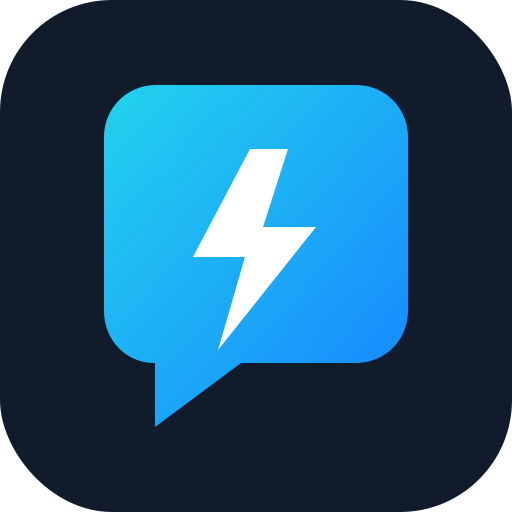
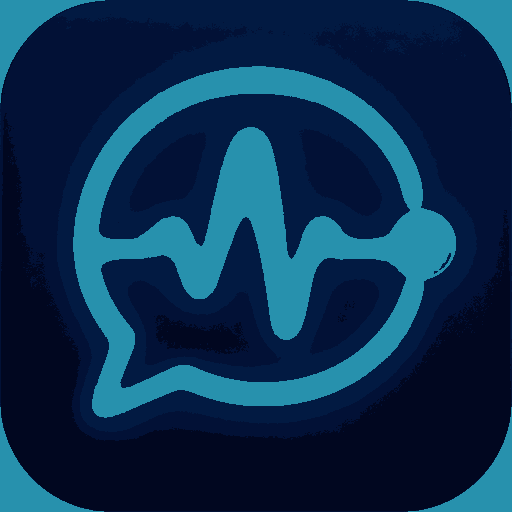
Rename app to Pulse and add turquoise pulse theme

diff --git a/index.html b/index.html
@@ -1,7 +1,7 @@
 <!DOCTYPE html>
 <html lang="hu">
 <head>
-<meta charset="UTF-8"><meta name="viewport" content="width=device-width,initial-scale=1,viewport-fit=cover"><title>Üzenetek – Chat</title><meta name="theme-color" content="#14243a"><meta name="description" content="Üzenetek és csoportos beszélgetések"><link rel="manifest" href="./manifest.json"><link rel="icon" href="./icon.svg" type="image/svg+xml">
+<meta charset="UTF-8"><meta name="viewport" content="width=device-width,initial-scale=1,viewport-fit=cover"><title>Pulse</title><meta name="theme-color" content="#0a2634"><meta name="description" content="Pulse – üzenetek, csoportok és hívások"><link rel="manifest" href="./manifest.json"><link rel="icon" href="./icons/icon-192.png" type="image/png">
 <link rel="preconnect" href="https://fonts.googleapis.com"><link href="https://fonts.googleapis.com/css2?family=DM+Sans:wght@400;500;600;700&family=Manrope:wght@400;500;600;700;800&display=swap" rel="stylesheet">
 <style>
 :root{--blue:#1684ff;--ink:#152033;--muted:#8993a5;--line:#edf0f4;--paper:#fff;--bg:#f4f6fa;--soft:#f0f2f5}*{box-sizing:border-box}body{margin:0;background:var(--bg);color:var(--ink);font-family:'DM Sans',sans-serif;height:100vh;overflow:hidden}.shell{height:100vh;max-width:1560px;margin:auto;background:#fff;display:grid;grid-template-columns:76px 360px 1fr;box-shadow:0 0 48px #28364a12}.rail{background:#fff;border-right:1px solid var(--line);display:flex;align-items:center;flex-direction:column;padding:23px 0;gap:20px}.brand{width:44px;height:44px;background:linear-gradient(135deg,#20b1ff,#286bff);color:#fff;border-radius:15px;display:grid;place-items:center;font-size:23px;font-weight:800;margin-bottom:20px;box-shadow:0 6px 14px #1684ff44}.rail-btn{width:44px;height:44px;border:0;border-radius:14px;background:transparent;color:#9aa4b4;font-size:20px;cursor:pointer;position:relative}.rail-btn:hover,.rail-btn.active{background:#edf5ff;color:var(--blue)}.rail-spacer{flex:1}.rail-avatar{width:40px;height:40px;border-radius:50%;object-fit:cover;cursor:pointer;border:2px solid white;box-shadow:0 0 0 1px #e8ebf0;background:#f0f3f7;color:#8591a3;display:grid;place-items:center;font-size:19px}.sidebar{border-right:1px solid var(--line);display:flex;flex-direction:column;min-width:0}.side-head{padding:30px 25px 20px}.head-row{display:flex;align-items:center;justify-content:space-between}.head-row h1{font:800 26px Manrope,sans-serif;margin:0;letter-spacing:-1px}.round-action{width:37px;height:37px;border:0;border-radius:50%;background:#eff3f8;color:#26354b;font-size:20px;cursor:pointer}.tabs{display:flex;gap:8px;margin-top:23px}.tab{border:0;background:none;padding:8px 14px;border-radius:20px;color:#8791a0;font:600 13px inherit;cursor:pointer}.tab.active{background:#eaf3ff;color:var(--blue)}.search{margin:0 20px 14px;background:#f2f4f7;border-radius:11px;padding:0 13px;display:flex;align-items:center;gap:9px;height:40px;color:#929bab}.search input{border:0;outline:0;background:transparent;font:14px inherit;width:100%;color:var(--ink)}.list{overflow:auto;padding:2px 10px}.person{width:100%;border:0;background:transparent;display:flex;align-items:center;text-align:left;gap:12px;padding:11px 12px;border-radius:13px;cursor:pointer}.person:hover{background:#f6f8fb}.person.selected{background:#edf5ff}.avatar-wrap{position:relative;flex-shrink:0}.avatar{width:49px;height:49px;border-radius:50%;object-fit:cover;background:#e8edf4;display:grid;place-items:center;color:#9aa5b3;flex-shrink:0}.avatar img{width:100%;height:100%;object-fit:cover;border-radius:50%}.online{position:absolute;right:0;bottom:2px;width:12px;height:12px;background:#28c76f;border:2px solid white;border-radius:50%}.person-meta{min-width:0;flex:1}.person-top{display:flex;justify-content:space-between;gap:6px;align-items:center}.person-name{font-weight:700;font-size:14px;white-space:nowrap;overflow:hidden;text-overflow:ellipsis}.time{color:#9ca5b2;font-size:11px;white-space:nowrap}.preview{font-size:12px;color:#929bab;margin-top:4px;white-space:nowrap;overflow:hidden;text-overflow:ellipsis}.badge{background:var(--blue);color:#fff;border-radius:10px;font-size:10px;padding:2px 6px}.chat{min-width:0;display:flex;flex-direction:column;background:white}.chat-head{height:78px;border-bottom:1px solid var(--line);display:flex;align-items:center;padding:0 27px;gap:12px}.chat-person{flex:1;min-width:0}.chat-person strong{display:block;font-size:15px}.chat-person span{font-size:12px;color:#28b76b}.head-tools{display:flex;gap:9px}.tool{border:0;width:37px;height:37px;border-radius:50%;background:#f1f4f8;color:#657187;font-size:17px;cursor:pointer}.tool:hover{color:var(--blue);background:#eaf3ff}.chat-body{flex:1;overflow:auto;padding:26px clamp(18px,5vw,76px);display:flex;flex-direction:column;gap:13px;background:linear-gradient(#fff,#fff)}.day{text-align:center;color:#a0a8b3;font-size:11px;margin:1px 0 8px}.msg-row{display:flex;align-items:flex-end;gap:8px;max-width:75%}.msg-row.mine{align-self:flex-end;flex-direction:row-reverse}.msg-avatar{width:27px;height:27px;border-radius:50%;object-fit:cover}.bubble{padding:11px 15px;border-radius:18px;background:#f0f2f5;color:#283246;font-size:14px;line-height:1.45;max-width:100%;word-break:break-word}.bubble .message-image{display:block;width:min(100%,320px);max-height:420px;object-fit:contain;border-radius:12px}.bubble:has(.message-image){padding:6px}.message-image+*{margin-top:6px}.msg-row:not(.mine) .bubble{border-bottom-left-radius:5px}.msg-row.mine .bubble{background:linear-gradient(130deg,#2399ff,#0875f4);color:#fff;border-bottom-right-radius:5px}.msg-time{font-size:10px;color:#9ba5b2;margin:0 4px 1px}.composer{padding:14px 24px 22px;border-top:1px solid var(--line);display:flex;align-items:center;gap:10px}.compose-btn{border:0;background:none;color:#7d8899;font-size:20px;cursor:pointer;width:30px}.compose-input{flex:1;border:0;outline:0;background:#f2f4f7;border-radius:24px;height:44px;padding:0 18px;font:14px 'DM Sans';min-width:0}.send{border:0;background:var(--blue);color:white;border-radius:50%;width:42px;height:42px;font-size:17px;cursor:pointer;box-shadow:0 3px 9px #1684ff50}.send:hover{background:#0871e6}.empty{padding:35px;text-align:center;color:#9aa3b0;font-size:13px}.profile{display:none;flex:1;overflow:auto;background:#f8f9fb;padding:32px clamp(20px,6vw,90px)}.profile-card{max-width:700px;margin:auto;background:#fff;border:1px solid var(--line);border-radius:22px;padding:30px;box-shadow:0 8px 30px #1f34500a}.profile-title{font:800 24px Manrope;margin:0 0 25px}.profile-hero{display:flex;align-items:center;gap:18px;padding-bottom:24px;border-bottom:1px solid var(--line)}.big-avatar{width:94px;height:94px;border-radius:50%;object-fit:cover;background:#edf1f5;display:grid;place-items:center;color:#9aa5b3;font-size:34px;background-size:cover;background-position:center}.hero-info h2{margin:0 0 5px;font:700 21px Manrope}.hero-info p{margin:0;color:#909aaa;font-size:13px}.blue-btn{border:0;background:#edf5ff;color:var(--blue);font-weight:700;padding:9px 13px;border-radius:9px;cursor:pointer;margin-top:12px}.field{margin-top:21px}.field label{display:block;font-size:12px;font-weight:700;color:#697487;margin-bottom:8px}.field input{height:44px;border:1px solid #e6eaf0;border-radius:10px;width:100%;padding:0 13px;font:14px 'DM Sans';outline-color:#8dbdff}.photos{display:flex;gap:10px;flex-wrap:wrap;margin-top:10px}.photo-thumb{width:68px;height:68px;border-radius:12px;object-fit:cover}.add-photo{width:68px;height:68px;border-radius:12px;border:1px dashed #b7c5d8;background:#fafcff;color:#8393a9;font-size:24px;cursor:pointer}.setting-row{display:flex;align-items:center;justify-content:space-between;padding:17px 0;border-bottom:1px solid var(--line);font-size:13px}.setting-row span{color:#8791a0}.toggle{width:40px;height:23px;border:0;border-radius:20px;background:#d8dee7;position:relative;cursor:pointer}.toggle:after{content:'';position:absolute;width:17px;height:17px;border-radius:50%;background:white;top:3px;left:3px;transition:.2s}.toggle.on{background:var(--blue)}.toggle.on:after{left:20px}.profile-tab .profile{display:block}.profile-tab .chat{display:none}.profile-tab .sidebar{display:none}.profile-tab{grid-template-columns:76px 1fr}.group-modal{position:fixed;inset:0;background:#101d3280;display:none;place-items:center;z-index:5}.modal-box{background:white;width:min(420px,calc(100vw - 30px));padding:25px;border-radius:20px;box-shadow:0 20px 80px #0003}.modal-box h3{font:800 20px Manrope;margin:0 0 18px}.modal-box input,.modal-box select{width:100%;padding:12px;border:1px solid #e2e7ef;border-radius:10px;margin:6px 0 14px;font:14px 'DM Sans'}.modal-actions{display:flex;justify-content:flex-end;gap:8px}.modal-actions button{padding:10px 16px;border:0;border-radius:9px;cursor:pointer;font-weight:700}.cancel{background:#f1f3f6}.create{background:var(--blue);color:white}.file{display:none}.toast{position:fixed;bottom:26px;left:50%;transform:translateX(-50%) translateY(20px);background:#172236;color:#fff;padding:11px 17px;border-radius:30px;font-size:13px;opacity:0;transition:.25s;pointer-events:none;z-index:9}.toast.show{opacity:1;transform:translateX(-50%) translateY(0)}@media(max-width:800px){.shell{grid-template-columns:62px 290px 1fr}.chat-head{padding:0 15px}.chat-body{padding:20px 14px}.composer{padding:12px}.head-tools .tool:nth-child(1){display:none}}@media(max-width:620px){body{overflow:hidden}.shell{grid-template-columns:58px 1fr}.sidebar{display:flex}.chat{display:none}.profile{display:none}.shell.mobile-chat{grid-template-columns:58px 1fr}.mobile-chat .sidebar{display:none}.mobile-chat .chat{display:flex}.mobile-chat .profile{display:none}.mobile-chat.profile-tab .chat{display:none}.mobile-chat.profile-tab .profile{display:block}.side-head{padding:20px 16px 14px}.side-head h1{font-size:23px}.person{padding:10px 7px}.chat-head{height:68px}.back{display:block!important}.profile-tab{grid-template-columns:58px 1fr}.profile{padding:20px 12px}.profile-card{padding:20px}.composer{gap:5px}.compose-btn{width:25px}.msg-row{max-width:90%}}.back{display:none}
@@ -601,6 +601,18 @@ async function logoutFromOwnProfile(){if(!firebaseUser){toast('Nincs bejelentkez
   <button id="callHangupButton" class="call-control hangup" onclick="endPhoneCall()" aria-label="Hívás befejezése">☎</button>
  </div></div>
 </div>
+<style>
+/* Pulse alap téma: a háttér finoman lélegzik, az ikon a márkajel. */
+@keyframes pulseAqua{0%,100%{background-position:0% 0%,100% 100%,50% 50%;filter:saturate(1)}50%{background-position:10% 8%,90% 92%,50% 50%;filter:saturate(1.18)}}
+body{background:radial-gradient(ellipse at 16% 14%,rgba(0,239,231,.16),transparent 35%),radial-gradient(ellipse at 88% 84%,rgba(15,177,205,.14),transparent 42%),linear-gradient(145deg,#06131c,#071e29 52%,#06151c);animation:pulseAqua 7s ease-in-out infinite}
+.shell{background:rgba(7,20,29,.95);border-color:rgba(68,234,229,.15)}
+.app-topbar{background:linear-gradient(105deg,#081b26,#092b35 54%,#072029)}
+.sidebar{background:linear-gradient(160deg,#081b26,#09232d 62%,#06242a)}
+.chat,.chat-head,.composer{background:#091d28}.chat-body{background:radial-gradient(ellipse at 8% 8%,rgba(0,240,223,.11),transparent 34%),radial-gradient(ellipse at 94% 90%,rgba(12,174,207,.11),transparent 36%),linear-gradient(145deg,#071d29,#092430 54%,#061d25)}
+.brand{background:#071827 url('./icons/icon-192.png') center/cover no-repeat!important;box-shadow:0 8px 22px rgba(0,236,227,.28)!important;color:transparent!important}
+.new-group,.create,.send,.msg-row.mine .bubble{background:linear-gradient(115deg,#00cfc8,#08aaca 58%,#0878af)!important}
+</style>
+<script>document.querySelector('.top-brand strong').textContent='Pulse';</script>
 <script src="./calls.js"></script><script src="./mobile-bridge.js"></script><script src="./notifications.js"></script>
 <script>if('serviceWorker'in navigator&&!window.ChatNative?.isNative)navigator.serviceWorker.register('./sw.js').catch(console.warn);updateNotificationSetting();</script>
 <script>let deferredInstallPrompt=null;window.addEventListener('beforeinstallprompt',event=>{event.preventDefault();deferredInstallPrompt=event;document.getElementById('installAppButton').textContent='Telepítés a készülékre'});window.addEventListener('appinstalled',()=>{deferredInstallPrompt=null;toast('Az alkalmazás telepítve')});window.installChatApp=async function(){if(deferredInstallPrompt){await deferredInstallPrompt.prompt();await deferredInstallPrompt.userChoice;deferredInstallPrompt=null;return}if(window.ChatNative?.isNative||window.matchMedia('(display-mode: standalone)').matches){toast('Az alkalmazás már telepítve van');return}toast(/iPhone|iPad/.test(navigator.userAgent)?'Safari → Megosztás → Hozzáadás a főképernyőhöz':'Chrome menü ⋮ → Alkalmazás telepítése')};</script></body></html>

diff --git a/ios/App/App/AppDelegate.swift b/ios/App/App/AppDelegate.swift
@@ -113,7 +113,7 @@ final class ChatPhoneManager: NSObject, PKPushRegistryDelegate, CXProviderDelega
     var timers: [UUID:Timer]=[:]
     var pendingAction: [String:Any]?
     var idToken:String?
-    override init(){let c=CXProviderConfiguration(localizedName:"Üzenetek");c.supportsVideo=false;c.maximumCallsPerCallGroup=1;c.supportedHandleTypes=[.generic];provider=CXProvider(configuration:c);super.init();provider.setDelegate(self,queue:.main)}
+    override init(){let c=CXProviderConfiguration(localizedName:"Pulse");c.supportsVideo=false;c.maximumCallsPerCallGroup=1;c.supportedHandleTypes=[.generic];provider=CXProvider(configuration:c);super.init();provider.setDelegate(self,queue:.main)}
     func configure(){UNUserNotificationCenter.current().delegate=self;registry=PKPushRegistry(queue:.main);registry?.delegate=self;registry?.desiredPushTypes=[.voIP]}
     func didRegister(token:Data){UserDefaults.standard.set(token.map{String(format:"%02x",$0)}.joined(),forKey:"apnsToken");emitTokens()}
     func emitTokens(){var data:[String:Any]=["platform":"ios"];if let t=UserDefaults.standard.string(forKey:"apnsToken"){data["token"]=t};if let t=UserDefaults.standard.string(forKey:"voipToken"){data["voipToken"]=t};if data.count>1{plugin?.emit("pushToken",data)}}

diff --git a/sw.js b/sw.js
@@ -22,5 +22,5 @@ firebase.initializeApp({apiKey:'AIzaSyAX1n-46JJ6a3XnQwd_d0QaDoQbV1QnSYc',project
 firebase.messaging().onBackgroundMessage(payload=>{
   const d=payload.data||{};if(d.type==='call'&&Number(d.expiresAt)<Date.now())return;
   if(d.type==='call-ended')return self.registration.getNotifications({tag:'call-'+d.callId}).then(items=>items.forEach(n=>n.close()));
-  return self.registration.showNotification(d.title||'Üzenetek',{body:(d.isGroup==='true'?d.senderName+'\n':'')+(d.body||'Új üzenet'),icon:d.avatarUrl||'./icons/icon-192.png',badge:'./icons/badge.png',tag:d.tag,requireInteraction:d.type==='call',vibrate:d.type==='call'?[300,100,300,100,300]:[120],data:{chatId:d.chatId,callId:d.callId,url:d.type==='call'?'./?call='+encodeURIComponent(d.callId):'./?chat='+encodeURIComponent(d.chatId)}});
+  return self.registration.showNotification(d.title||'Pulse',{body:(d.isGroup==='true'?d.senderName+'\n':'')+(d.body||'Új üzenet'),icon:d.avatarUrl||'./icons/icon-192.png',badge:'./icons/badge.png',tag:d.tag,requireInteraction:d.type==='call',vibrate:d.type==='call'?[300,100,300,100,300]:[120],data:{chatId:d.chatId,callId:d.callId,url:d.type==='call'?'./?call='+encodeURIComponent(d.callId):'./?chat='+encodeURIComponent(d.chatId)}});
 });

diff --git a/android/app/src/main/java/hu/martinroszoly/chat/ChatNotifications.java b/android/app/src/main/java/hu/martinroszoly/chat/ChatNotifications.java
@@ -16,7 +16,7 @@ public class ChatNotifications {
     static int id(String key){return key.hashCode()&0x7fffffff;}
     static void channels(Context c){
         NotificationManager nm=c.getSystemService(NotificationManager.class);
-        NotificationChannel messages=new NotificationChannel(MESSAGES,"Üzenetek",NotificationManager.IMPORTANCE_HIGH);messages.enableVibration(true);messages.setSound(RingtoneManager.getDefaultUri(RingtoneManager.TYPE_NOTIFICATION),new AudioAttributes.Builder().setUsage(AudioAttributes.USAGE_NOTIFICATION).build());nm.createNotificationChannel(messages);
+        NotificationChannel messages=new NotificationChannel(MESSAGES,"Pulse üzenetek",NotificationManager.IMPORTANCE_HIGH);messages.enableVibration(true);messages.setSound(RingtoneManager.getDefaultUri(RingtoneManager.TYPE_NOTIFICATION),new AudioAttributes.Builder().setUsage(AudioAttributes.USAGE_NOTIFICATION).build());nm.createNotificationChannel(messages);
         NotificationChannel calls=new NotificationChannel(CALLS,"Bejövő hívások",NotificationManager.IMPORTANCE_HIGH);calls.enableVibration(true);calls.setSound(RingtoneManager.getDefaultUri(RingtoneManager.TYPE_RINGTONE),new AudioAttributes.Builder().setUsage(AudioAttributes.USAGE_NOTIFICATION_RINGTONE).build());nm.createNotificationChannel(calls);
         nm.createNotificationChannel(new NotificationChannel(ACTIVE,"Folyamatban lévő hívás",NotificationManager.IMPORTANCE_LOW));
     }
